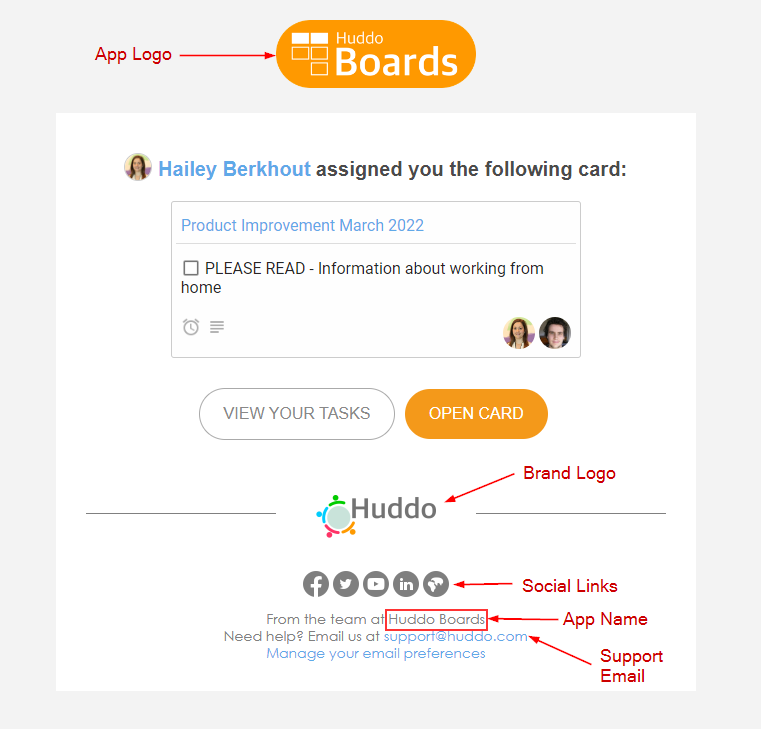
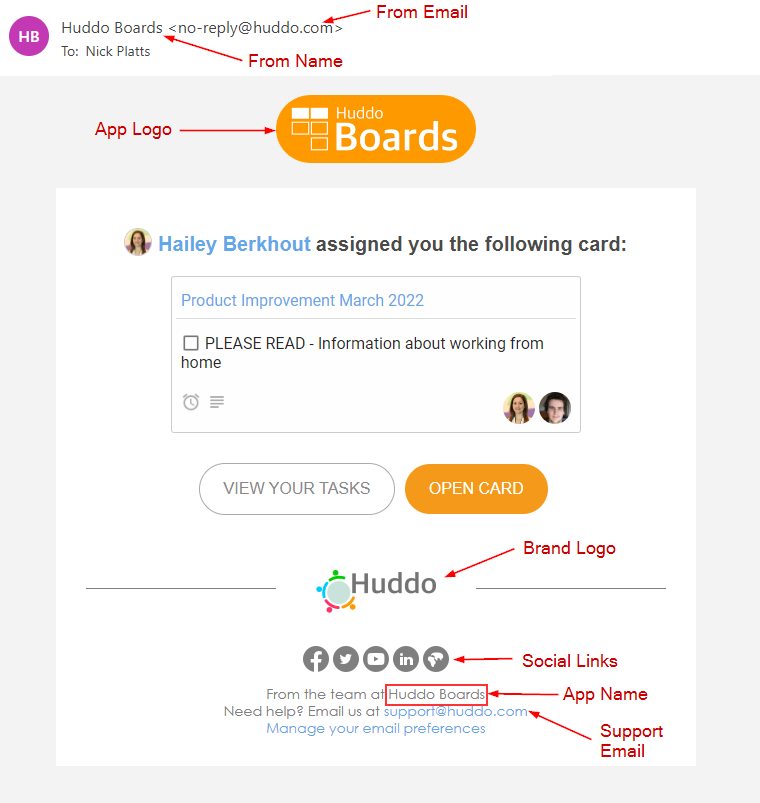
improve customise emails doco

Changed region(s): [[0.1513, 0.2716, 0.8776, 0.9657], [0.0, 0.0, 0.8171, 0.2414]]

diff --git a/docs/boards/env/notifications.md b/docs/boards/env/notifications.md
@@ -4,8 +4,15 @@ The custom values are set as ENV variables in the config file.
 
 
 The image below shows the items that can be customised within notifications:
+<br/>
+
 ![Customisable values](/assets/boards/notification-config.png)
 
+### From Name
+Use `events.env.NOTIFIER_EMAIL_FROM_NAME` to set the from name for emails <br/>Default: `Huddo Boards`
+
+### From Email
+Use `events.env.NOTIFIER_EMAIL_FROM_EMAIL` to set the sent from email address <br/>Default: `no-reply@huddo.com`
 
 ### App Logo
 Specify a URL to point to a hosted logo image by specifying `events.env.APP_LOGO_URL` in the config. 
@@ -23,7 +30,8 @@ Note that an inline base64 encoded data URL can also be used for this variable.
 ### Social Links
 The links below the brand logo can be customised. These do not necessarily need to be displayed as images/icons and can be text based links.
 
-Specify the social links using the `events.env.SOCIAL_LINKS` variable. The links are specified in an array of objects with the format:
+The standard/default Huddo social links can be replaced by setting the `events.env.SOCIAL_LINKS` variable. 
+The links are specified in an array of objects with the format:
 ```json
  {
   name: "Link Name/Text", 
@@ -40,7 +48,21 @@ e.g.:
 ``` 
 
 ### App Name
-Use `events.env.APP_NAME` to specify the app name.
+Use `events.env.APP_NAME` to specify the app name.<br/>Default: `Huddo Boards`
 
 ### Support Email
-The support email address can be specified in `events.env.NOTIFIER_EMAIL_SUPPORT_EMAIL`
+The support email address can be specified in `events.env.NOTIFIER_EMAIL_SUPPORT_EMAIL`<br/>Default: `support@huddo.com`
+
+## Email Config Example (YAML)
+```yaml
+events:
+  env:
+    NOTIFIER_EMAIL_FROM_NAME: My Company
+    NOTIFIER_EMAIL_FROM_EMAIL: boards@company.com
+    APP_LOGO_URL: https://company.com/assets/company_logo.png
+    BRAND_LOGO_URL: https://company.com/assets/logo.png
+    SOCIAL_LINKS: "[{\"name\": \"Intranet\",\"link\":\"https://company.com/intranet/\"}, { \"name\": \"Support\", \"link\": \"https://company.com/support\", 
+    \"icon\": \"https://company.com/assets/support_icon.png\"}]"
+    APP_NAME: Boards for My Company
+    NOTIFIER_EMAIL_SUPPORT_EMAIL: support@company.com
+```
